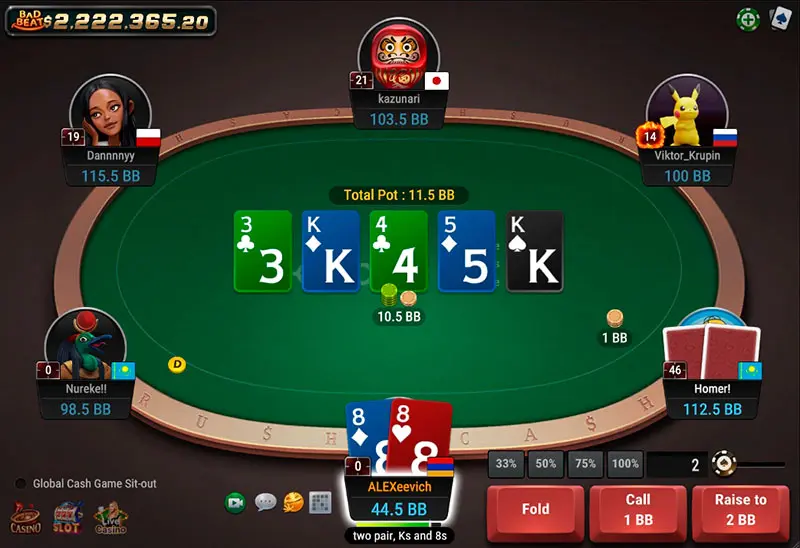
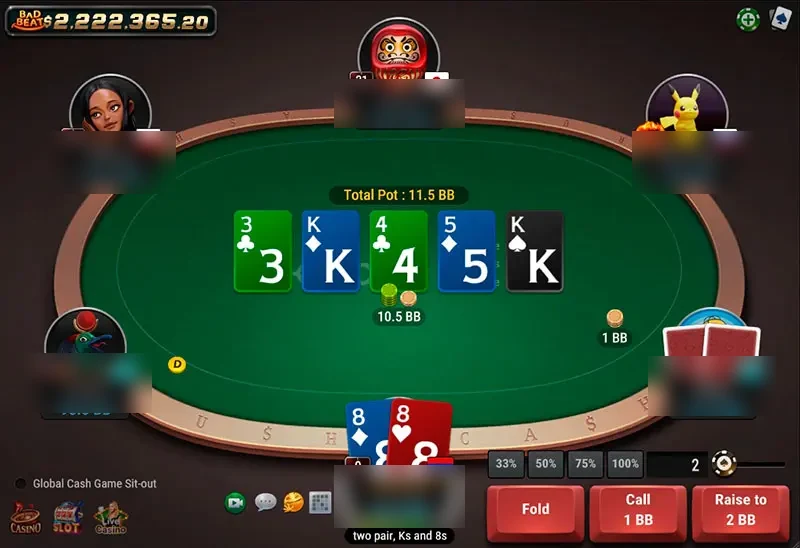
The second pass, from an audit that found what the first one missed
Five independent sweeps of the same repository. The first pass had looked
for private addresses and for the owner's name; these are what it did not
look for.

**A public IPv4, in thirty-three places.** The owner's home broadband
address, pasted into research logs. A private address says which of the
three RFC 1918 blocks somebody uses; a public one says which household.
Replaced with RFC 5737 TEST-NET-2, chosen at the same length so the
aligned ASCII blocks in those logs stay aligned. With it went the ISP
name, the allocation range and the country — and a Mainline node id whose
leading bits are, under BEP 42, a checksum of the public address, so
publishing it beside a redacted one would have undone the redaction.

**An IPv6 ULA prefix.** Forty bits, generated once per site and stable for
ever: a durable fingerprint of exactly the kind being removed.

**Five strangers' poker handles, drawn on screen in a release build.**
`TableView::sample()` is not test code — the client calls it whenever a
player opens the table window without a seat — and its player names were
lifted from the reference screenshot. Which leads to the screenshot
itself: a live table showing six people's account names. The six name
plates are blurred in place. The felt, the rail, the cards and the shape
of a plate are what the file is a reference for, and a blurred name
affects none of them.

**Third parties' addresses**, harvested from public swarms during the DHT
[…]

diff --git a/src/app/mod.rs b/src/app/mod.rs
@@ -385,7 +385,7 @@ mod tests {
 
         s.apply(NodeEvent::Roster {
             key: [7u8; 32],
-            seats: vec![(0, "Alice".into(), 1_000), (1, "Dana".into(), 1_000)],
+            seats: vec![(0, "Alice".into(), 1_000), (1, "Bob".into(), 1_000)],
         });
         assert!(!s.at_a_real_table(), "a roster is a proposal, not a table");
 

diff --git a/src/gui/table/mod.rs b/src/gui/table/mod.rs
@@ -486,7 +486,7 @@ impl TableView {
                 },
                 SeatView {
                     seat: 2,
-                    name: "Dana".into(),
+                    name: "Carol".into(),
                     stack: 2_310,
                     bet: 40,
                     cards: [Facing::Down, Facing::Down],

diff --git a/docs/research/NAT_AND_DISCOVERY.md b/docs/research/NAT_AND_DISCOVERY.md
@@ -37,13 +37,13 @@ decision of the whole network layer, not an optional fallback.
 ### 1.1 Addresses
 
 ```
-LAN adapter "LAN adapter" : 192.168.1.21/24, gateway 192.168.1.1
+LAN adapter                   : 192.168.1.21/24, gateway 192.168.1.1
 Hyper-V "Default Switch"      : 172.20.160.1/20        <- virtual, see §5.3
-IPv6                          : fd00:0:0::/64 only — ULA, NOT globally routable
+IPv6                          : a ULA /64 only —, NOT globally routable
 External IPv4                 : 198.51.100.17
 ```
 
-`198.51.100.17` is in `198.51.100.0 – 198.51.100.255`, `RIPE-registered`, country CZ, type
+`198.51.100.17` is in a RIPE-registered range, type
 `ASSIGNED PA`, remark *"This prefix is used for residential broadband ISP services."*
 
 **Not CGNAT.** The reflexive address is a public, RIPE-registered residential address; it
@@ -125,7 +125,7 @@ does. Unsolicited inbound is impossible, so a peer can never be reached cold.
 ### 1.4 Honest caveat about generalising this
 
 This is **one** measurement of **one** network — a friendly one. It says nothing about
-the user's opponents. The Czech residential market includes CGNAT deployments, and the
+the user's opponents. European residential markets include CGNAT deployments, and the
 measurement campaign in §4 finds ~30% of hole punches fail in the wild. **Do not treat
 this result as evidence that the relay path is optional.** It is evidence that *this*
 machine will not be the one that fails.
@@ -561,7 +561,7 @@ results from 154 clients against 47,000 peers and reported 60–90%.
 
 ## 5. Two clients behind the same router (MEASURED)
 
-This has bitten this user before, so it was tested directly: two processes on this host,
+This is a known failure mode, so it was tested directly: two processes on one host,
 same LAN, same NAT.
 
 ### 5.1 It works, by two independent mechanisms
@@ -620,7 +620,7 @@ DIAL FAIL peer=Some(PeerId("12D3KooWN1VU…"))
 
 The peer is genuinely listening on that address, but it is on an isolated virtual switch,
 so the dial cannot complete and burns a full handshake timeout. On a developer machine
-(Hyper-V, WSL, Docker, VPN adapters — this host has three OpenVPN adapters too) this adds
+(Hyper-V, WSL, Docker and VPN adapters are all common on a developer machine) this adds
 several dead candidates to every dial. **Mitigation:** dial candidates concurrently and
 take the first success (libp2p already races them), cap per-address timeout, and consider
 excluding known-virtual interface prefixes from what we *publish*.

diff --git a/docs/CONTRIBUTING.md b/docs/CONTRIBUTING.md
@@ -105,8 +105,7 @@ One commit does one thing and leaves the tree building and green. The unit is a
   4 failed (random_hands, pre-existing, see §5)`. A red suite is recorded as red,
   with the failures named. Rounding a run up to "tests pass" is the same failure as
   claiming a lint that did not run.
-* Commits are in English. So is the code, and so are the documents. (Conversation is
-  in Czech; the repository is not.)
+* Commits are in English. So is the code, and so are the documents.
 
 ### 1.2 Never rewrite or delete large parts of a working implementation without justification
 
@@ -561,7 +560,7 @@ bites.
 
 ## 5. Build and test
 
-`.cargo/config.toml` holds cargo to **19 of this machine's 24 cores** so the box stays
+`.cargo/config.toml` holds cargo below the machine's core count so the box stays
 usable and a runaway job cannot starve everything else:
 
 ```toml
@@ -573,7 +572,7 @@ jobs = 19
 the same ceiling has to be passed explicitly every time:
 
 ```bash
-export PATH="~/.cargo/bin:$PATH"   # cargo is not on the Bash PATH
+export PATH="$HOME/.cargo/bin:$PATH"   # cargo is not on the Bash PATH
 
 cargo check                                    # fast type check, does NOT link
 cargo build                                    # a real build

diff --git a/docs/research/MAINLINE_DHT.md b/docs/research/MAINLINE_DHT.md
@@ -13,8 +13,8 @@ of scope here.
   `~/.cargo/registry/src/index.crates.io-1949cf8c6b5b557f/<crate>-<version>/`.
 
 docs.rs and prior knowledge were used only as leads. Toolchain: `rustc 1.95.0`,
-`cargo 1.95.0`, `x86_64-pc-windows-msvc`, Windows 10. Measurements taken
-2026-08-28, 07:37–09:20 UTC, from a residential IPv4 line behind a consumer NAT,
+`cargo 1.95.0`, `x86_64-pc-windows-msvc`. Measurements taken
+2026-08-28, from a residential IPv4 line behind a consumer NAT,
 public IPv4 `198.51.100.17`.
 
 **Independent re-verification pass, 08:25–09:20 UTC.** Every load-bearing claim in
@@ -854,7 +854,7 @@ this.
 **Measured proof that strangers are watching, not just that they could.** During the
 TTL experiment (§3.5, sample B) the infohash `2f59ec56c7dd…` was **20 random bytes
 generated on this machine**. Nobody else on Earth had any reason to know it existed;
-the only event that ever referenced it was our single `announce_peer` at 08:03:44
+the only event that ever referenced it was our single `announce_peer`
 UTC. Twenty-four minutes later, a lookup returned **two** peers:
 
 ```

diff --git a/docs/DEPENDENCIES.md b/docs/DEPENDENCIES.md
@@ -19,7 +19,7 @@ never a reason to leave a measured number wrong.
 to be inferred, because this is the document where a claimed absence does the most
 damage.
 
-**Measured on:** 2026-08-28, Windows 10, `x86_64-pc-windows-msvc`, 24 cores with
+**Measured on:** 2026-08-28, `x86_64-pc-windows-msvc`, with
 cargo held to **19** by `.cargo/config.toml` (`[build] jobs = 19`; the test harness
 has its own pool and needs `--test-threads=19` passed separately),
 `rustc 1.95.0 (59807616e 2026-04-14)` / `cargo 1.95.0 (f2d3ce0bd 2026-03-21)`,
@@ -1023,7 +1023,7 @@ reproducer's build is slower than 24 cores would suggest rather than differently
 resolved. `cargo test` ignores `jobs` and needs `--test-threads=19` passed by hand.
 
 ```bash
-export PATH="~/.cargo/bin:$PATH"      # cargo is not on the Bash PATH
+export PATH="$HOME/.cargo/bin:$PATH"      # cargo is not on the Bash PATH
 
 cargo check                                        # the whole stack builds
 

diff --git a/docs/research/ZIFFLE_PROTOCOL_FIT.md b/docs/research/ZIFFLE_PROTOCOL_FIT.md
@@ -636,7 +636,7 @@ Stated plainly, per `SPEC_CS.md` §36.
 ## 10. Reproduction
 
 ```bash
-export PATH="~/.cargo/bin:$PATH"
+export PATH="$HOME/.cargo/bin:$PATH"
 cd <scratch>/zr-protofit
 cargo run --release -j 19                 # selective opening, n-of-n, ctx, degenerate keys
 cargo run --release -j 19 --bin cost      # per-stage cost against the budget

diff --git a/docs/research/ZIFFLE_ATTACKS.md b/docs/research/ZIFFLE_ATTACKS.md
@@ -853,7 +853,7 @@ gaps.
 ## 11. Reproducing this
 
 ```bash
-export PATH="~/.cargo/bin:$PATH"
+export PATH="$HOME/.cargo/bin:$PATH"
 cd "<scratchpad>"
 cargo build --release -j 19
 ./target/release/zr-break.exe                        # all sections

diff --git a/docs/research/ZIFFLE_ALGEBRA.md b/docs/research/ZIFFLE_ALGEBRA.md
@@ -559,7 +559,7 @@ Stated plainly, per the brief.
 ## 8. Reproducing this
 
 ```bash
-export PATH="~/.cargo/bin:$PATH"
+export PATH="$HOME/.cargo/bin:$PATH"
 cd "<scratchpad>"
 cargo test --release -j 19 -- --nocapture --test-threads=1
 ```
